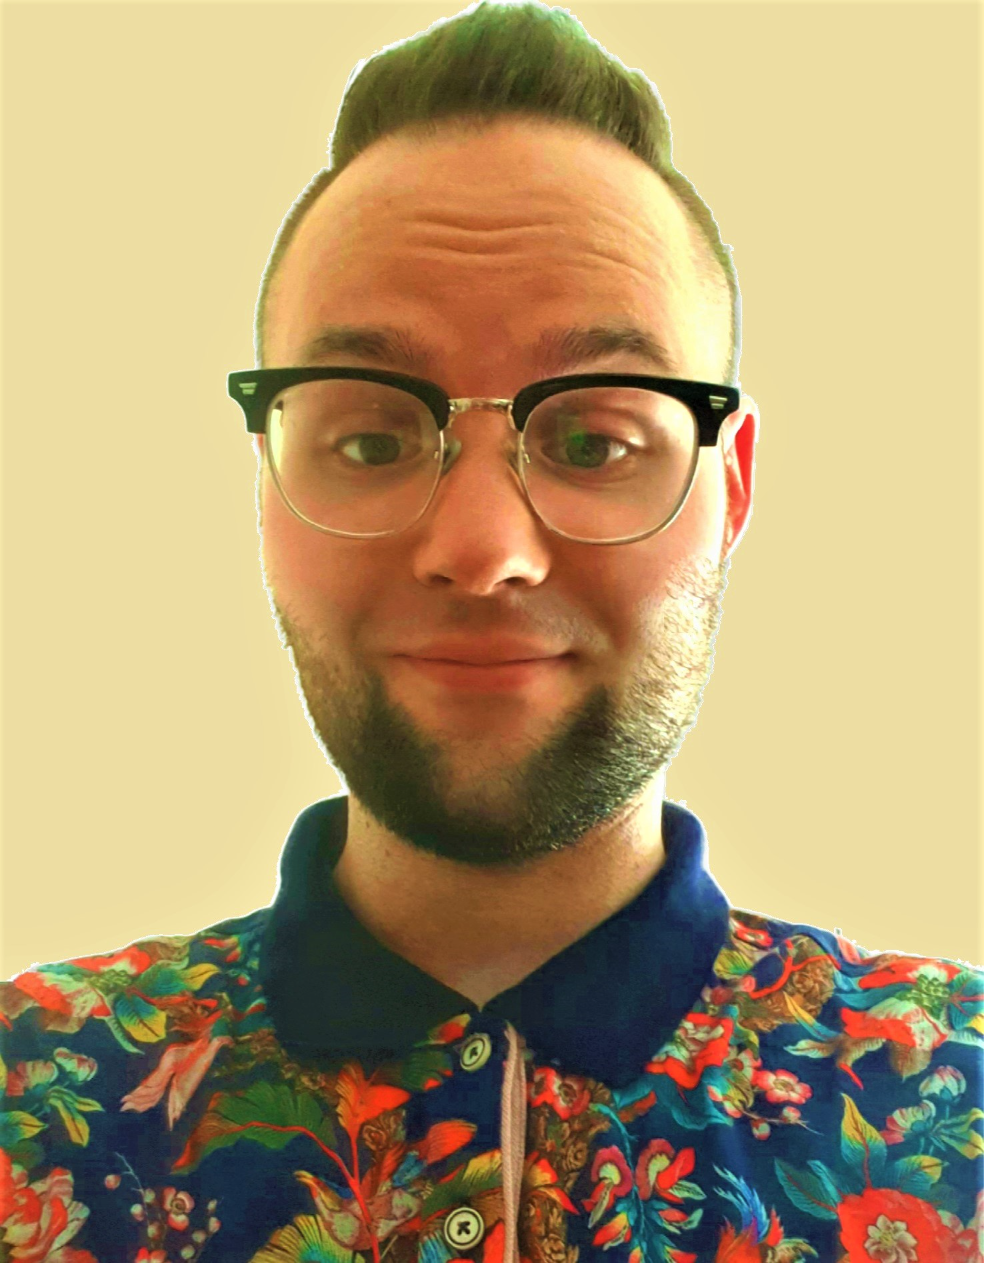
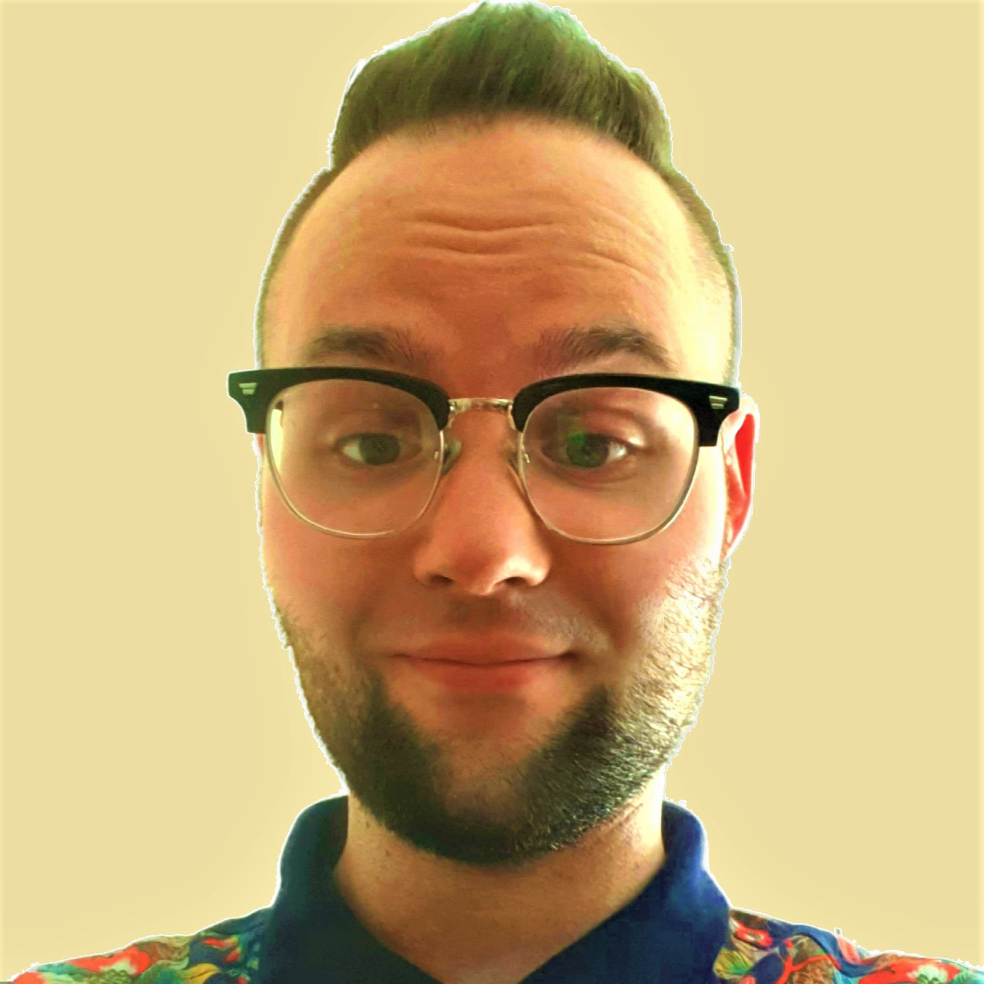
updating photoURL in myAccount

diff --git a/src/components/authentication/authentication.js b/src/components/authentication/authentication.js
@@ -12,7 +12,16 @@ import {
   sendPasswordResetEmail,
   updatePhoneNumber,
   updateEmail,
+  deleteUser,
 } from 'firebase/auth';
+import { 
+  getStorage,
+  ref,
+  uploadBytes,
+  getDownloadURL,
+} from 'firebase/storage';
+
+// Imports for auth support functions
 import {
   hideSignIn,
   showSignIn,
@@ -21,6 +30,8 @@ import {
   showLoginState,
   setUserInfo,
 } from '../authSupport/authSupport';
+
+// Components and libraries imports
 import resetWindowClose from '../signInUp/signInUp';
 import { closeModal } from '../myAccount/myAccount';
 import Notiflix from 'notiflix';
@@ -43,6 +54,9 @@ const firebaseApp = initializeApp(firebaseConfig);
 // Firebase authentication initiaization (creating instance of auth)
 const auth = getAuth(firebaseApp);
 
+// Firebase storage initiaization
+const storage = getStorage();
+
 // Inputs for login form
 const loginForm = document.querySelector('.login-form');
 const [email, password, rememberMe] = loginForm.elements;
@@ -62,6 +76,7 @@ const logoutBtn = document.querySelector('.account__logout');
 
 // Inputs for account update
 const userUpdateForm = document.querySelector('.general-form');
+const avatarUpdateForm = document.querySelector('.avatar-form');
 
 // Logging into account
 const loginWithEmailAndPassword = async (evt) => {
@@ -236,3 +251,36 @@ const userDataUpdate = async (evt) => {
 }
 
 userUpdateForm.addEventListener('submit', userDataUpdate);
+
+// Account update (photoURL)
+const upload = async (file, currentUser) => {
+  const fileRef = ref(storage, `${currentUser.uid}.png`);
+
+  await uploadBytes(fileRef, file);
+
+  const photoURL = await getDownloadURL(fileRef);
+
+  await updateProfile(auth.currentUser, {photoURL: photoURL});
+}
+
+const userAvatarUpdate = async (evt) => {
+  evt.preventDefault();
+  const {imageUpload} = evt.currentTarget.elements;
+  const photo = imageUpload.files[0];
+
+  if (!photo) {
+    Notiflix.Notify.info('The photo has not been selected.')
+  } else {
+    try {
+      await upload(photo, auth.currentUser);
+      closeModal();
+      checkAuthState();
+      Notiflix.Notify.success("The photo has been changed.");
+    } catch (error) {
+      console.log(`${error.name}: ${error.message}`);
+      Notiflix.Notify.failure('Update failed! Try again.');
+    }
+  }
+}
+
+avatarUpdateForm.addEventListener('submit', userAvatarUpdate);

diff --git a/src/components/authSupport/authSupport.js b/src/components/authSupport/authSupport.js
@@ -52,7 +52,7 @@ export const showLoginState = ({displayName}) => {
 export const setUserInfo = ({photoURL, displayName, email, phoneNumber}) => {
   (photoURL)
     ? photoOutput.src = photoURL
-    : phoneOutput.src = "https://cdn.pixabay.com/photo/2015/10/05/22/37/blank-profile-picture-973460_960_720.png";
+    : photoOutput.src = "https://cdn.pixabay.com/photo/2015/10/05/22/37/blank-profile-picture-973460_960_720.png";
 
   (displayName)
     ? usernameOutput.innerHTML = displayName

diff --git a/src/components/myAccount/myAccount.scss b/src/components/myAccount/myAccount.scss
@@ -110,6 +110,7 @@
     background-image: url('https://cdn.pixabay.com/photo/2015/10/05/22/37/blank-profile-picture-973460_960_720.png');
     background-repeat: no-repeat;
     background-size: cover;
+    background-position: center;
     cursor: pointer;
   }
 
@@ -172,6 +173,8 @@
     height: 150px;
     margin: 15px auto 20px auto;
     border-radius: 50%;
+    object-fit: cover;
+    object-position: center;
   }
 
   &__label {

diff --git a/src/components/myAccount/myAccount.js b/src/components/myAccount/myAccount.js
@@ -3,6 +3,7 @@ import {
   disableScrolling,
   enableScrolling,
 } from '../scrollToggle/scrollToggle';
+import { checkAuthState } from '../authentication/authentication';
 
 const openAccountBtn = document.querySelector('[data-account-open]');
 const closeAccountBtn = document.querySelector('[data-account-close]');
